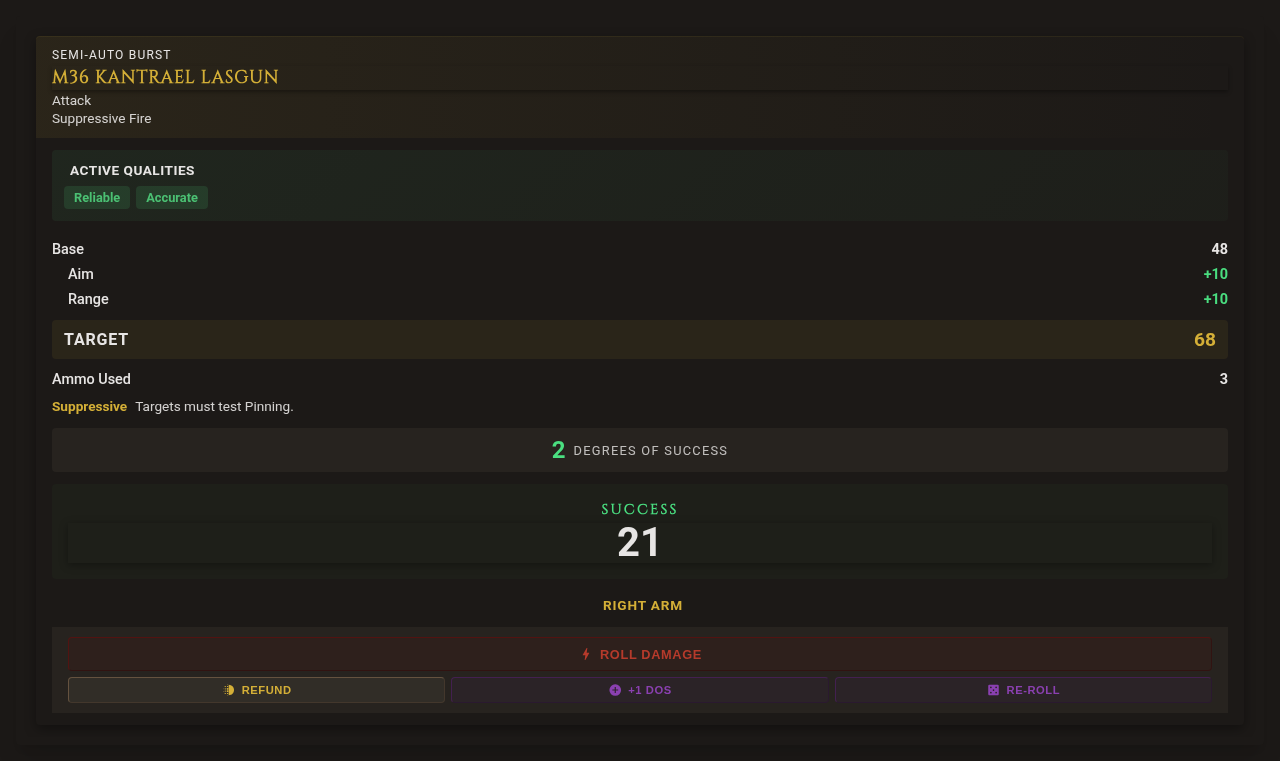
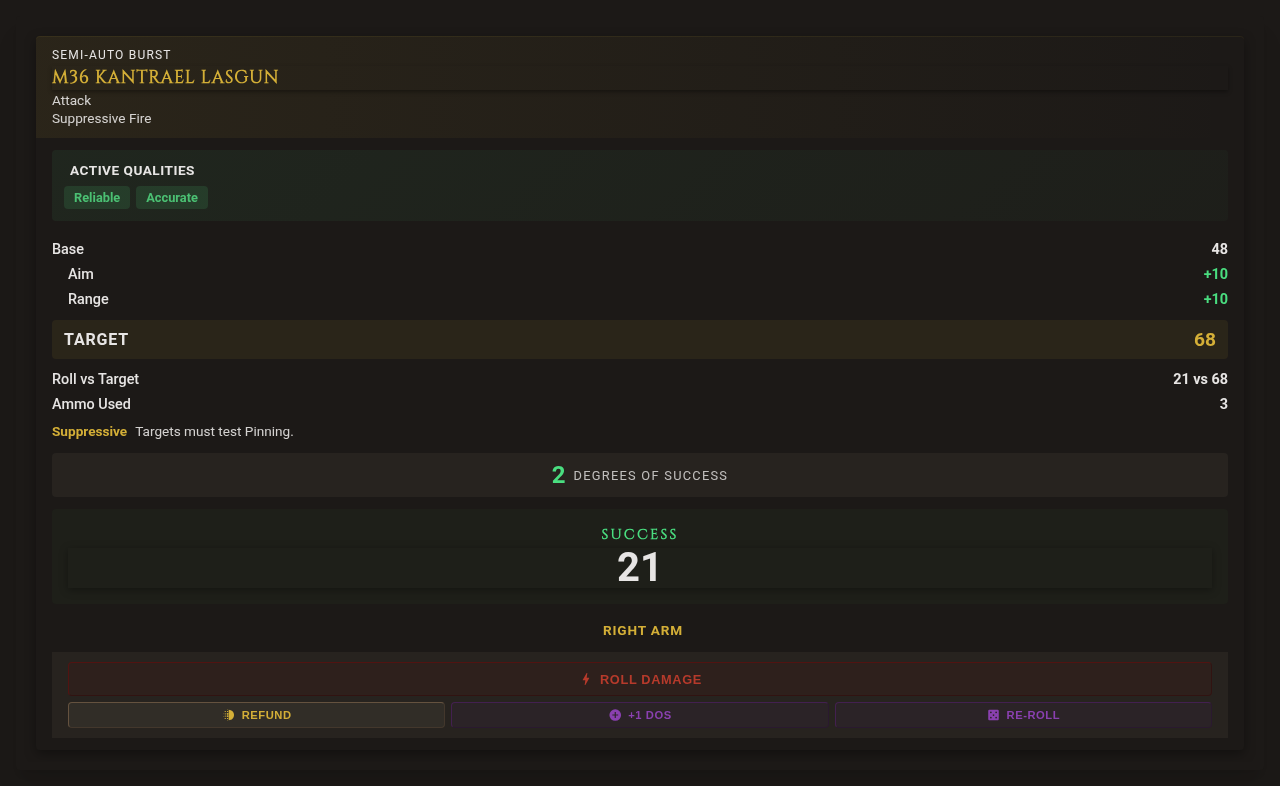
chore(integration): regen i18n keys, lock knip baseline, refresh combat audit-card baseline
Post-merge fixups for the point-buy/roll char-creation modes and combat-flow
fixes (merge commits e2d7b8d6c + 64df9426a):
- regenerate i18n-keys.d.ts from the merged en.json (both agents added keys)
- lower .knip-baseline (merge removed dead code; counts decreased)
- gitignore the vitest coverage/ artifact dir
- regenerate the chat-roll-cards--action-success-with-controls visual baseline
  to capture the new 'Roll vs Target' audit row (manually verified: row shows
  d100 result vs modified target, card layout intact)

diff --git a/src/module/types/i18n-keys.d.ts b/src/module/types/i18n-keys.d.ts
@@ -2536,6 +2536,9 @@ export type I18nKey =
     | 'WH40K.Rituals.Header'
     | 'WH40K.Rituals.Name'
     | 'WH40K.Rituals.Test'
+    | 'WH40K.Roll.Audit.AgainstTarget'
+    | 'WH40K.Roll.Audit.RollResult'
+    | 'WH40K.Roll.Audit.RollVsTarget'
     | 'WH40K.Roll.BaseTarget'
     | 'WH40K.Roll.ConfigureRoll'
     | 'WH40K.Roll.CriticalFailure'
@@ -2563,6 +2566,8 @@ export type I18nKey =
     | 'WH40K.Roll.TargetFirst'
     | 'WH40K.Roll.Title'
     | 'WH40K.Roll.WeaponAttack'
+    | 'WH40K.SETTINGS.AutoRollDamage.Hint'
+    | 'WH40K.SETTINGS.AutoRollDamage.Name'
     | 'WH40K.SETTINGS.CharacteristicOffset.Hint'
     | 'WH40K.SETTINGS.CharacteristicOffset.Name'
     | 'WH40K.SETTINGS.MovementAutomation.Display'